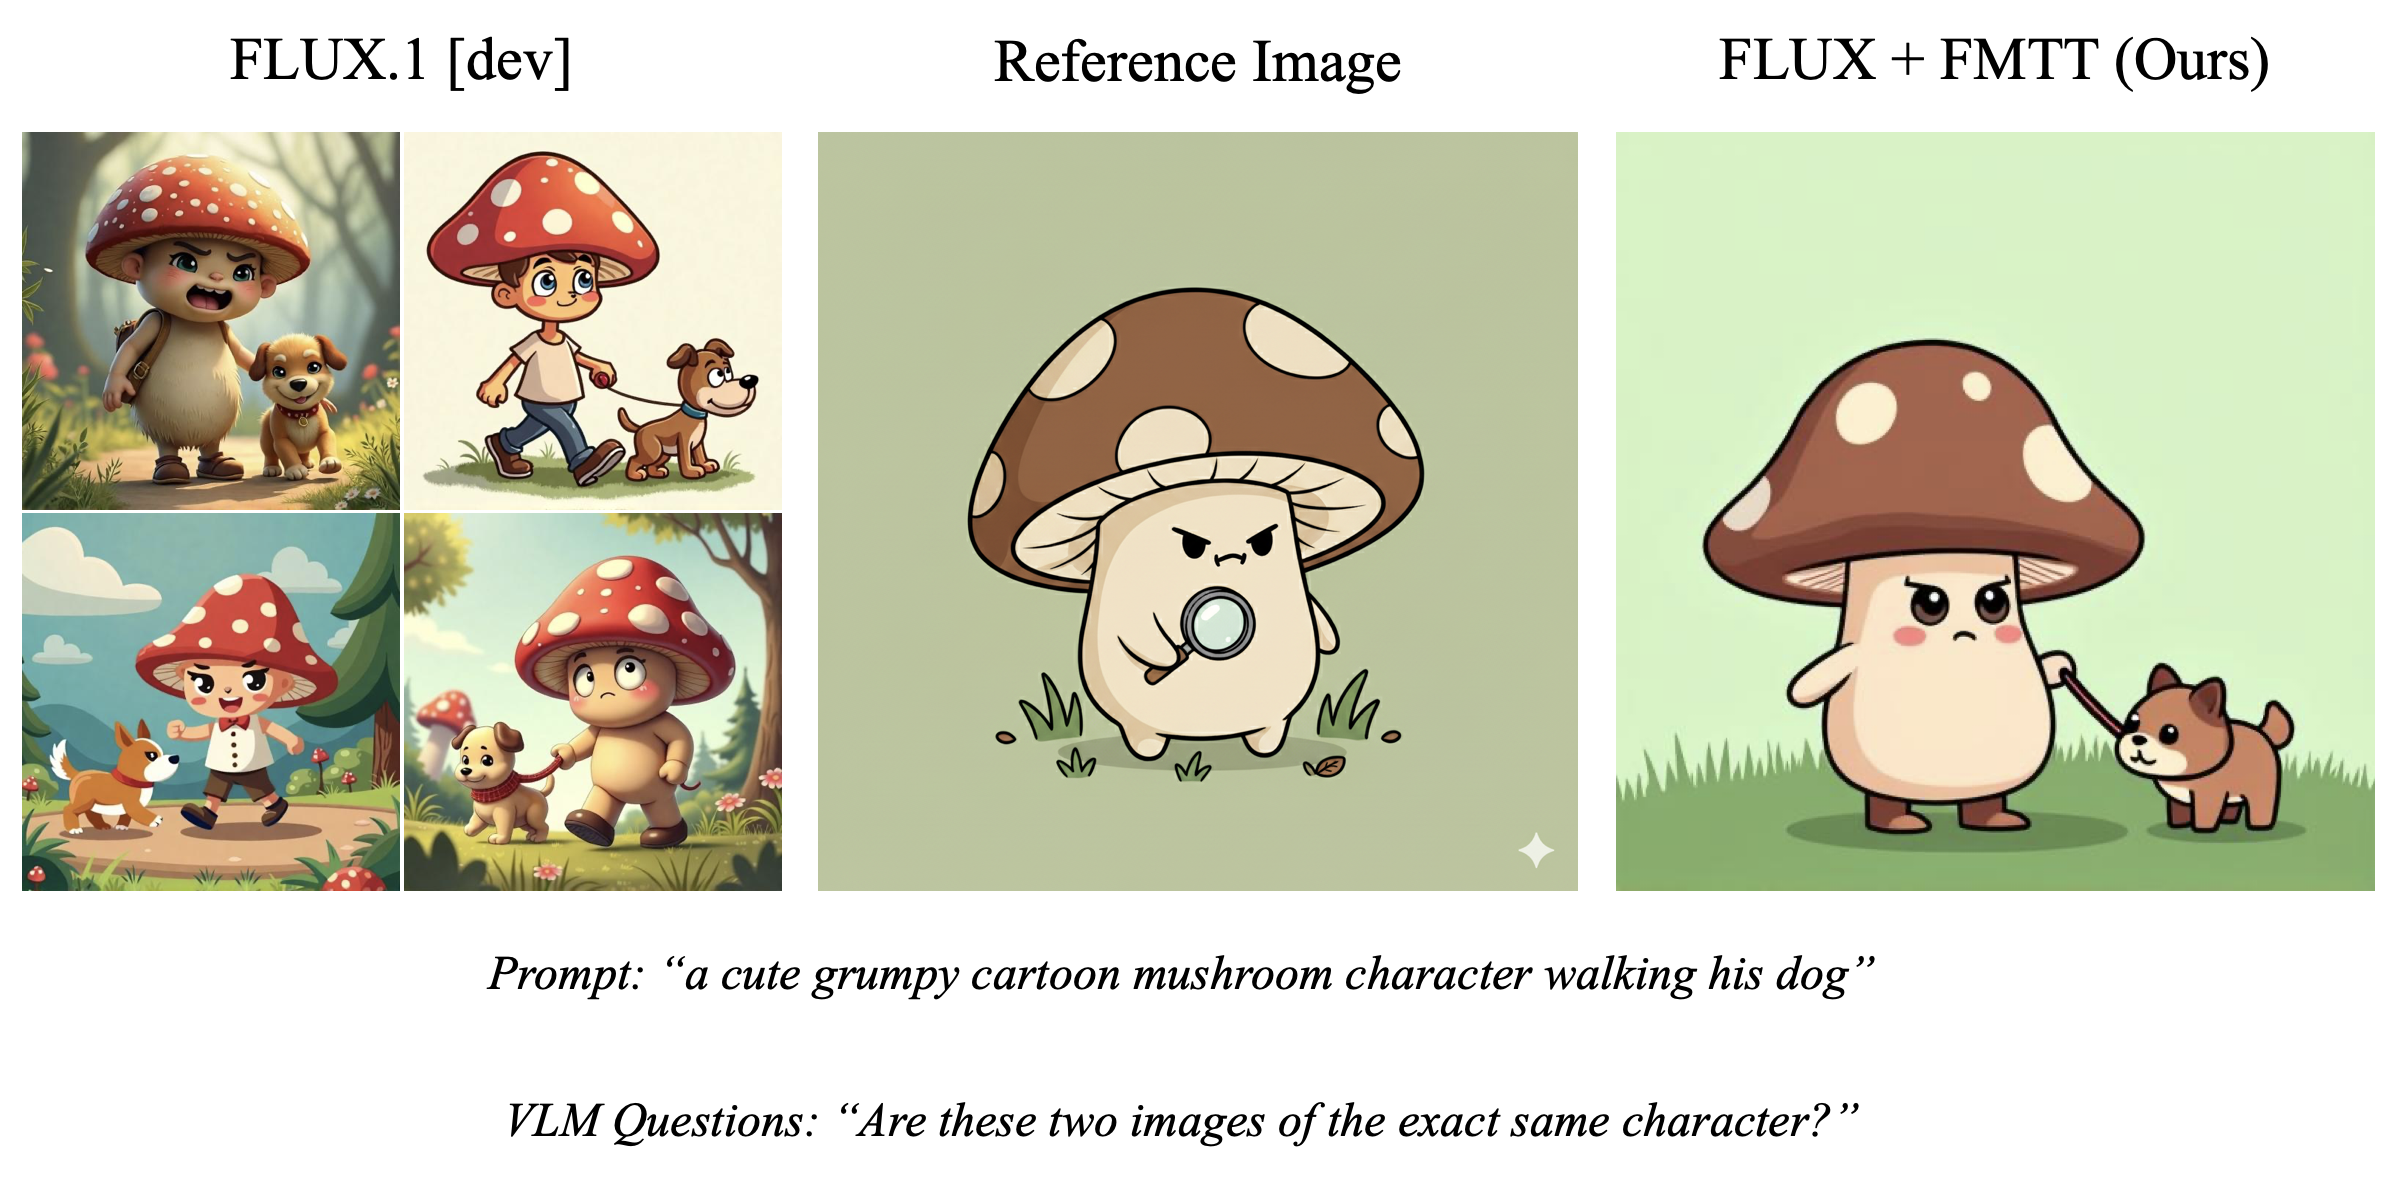
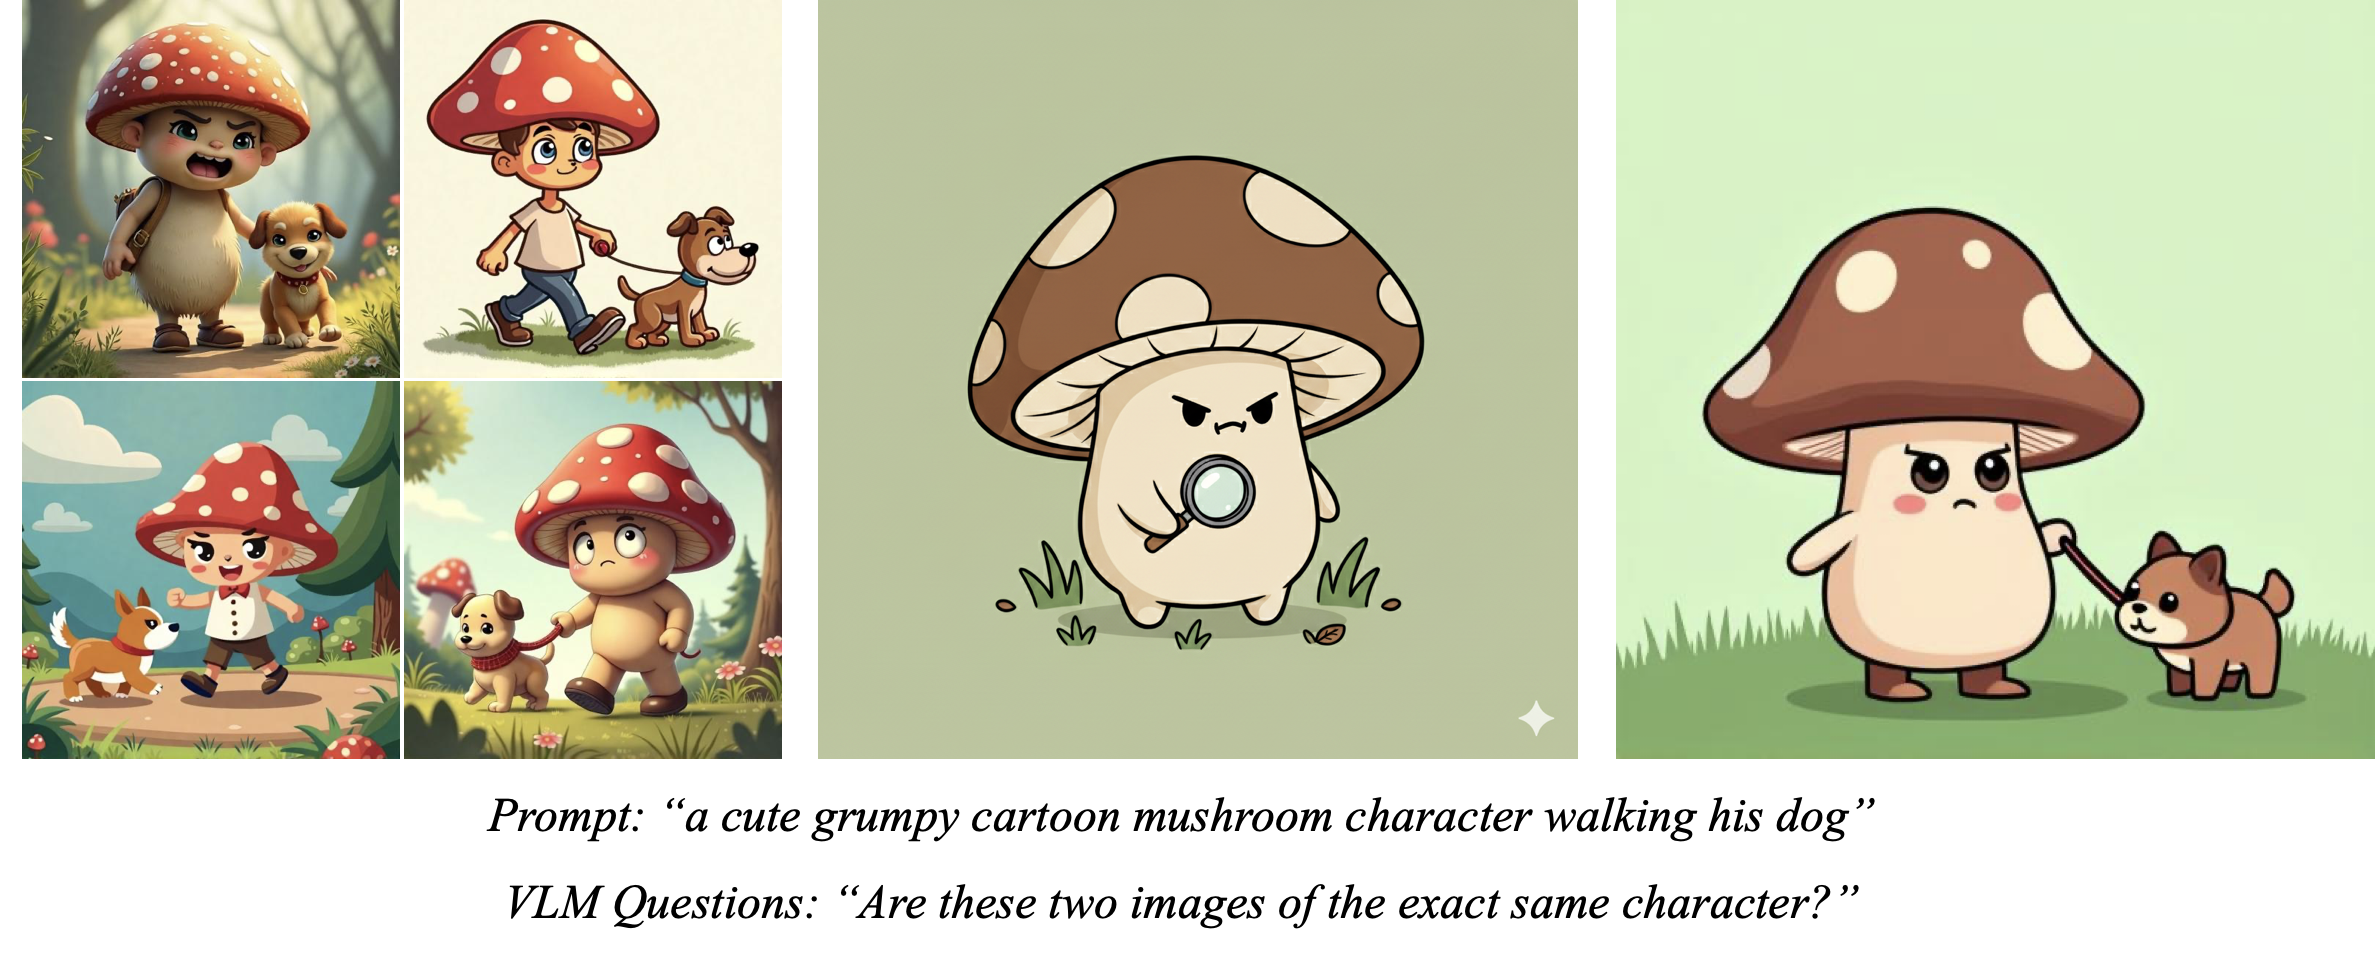
Update a few figures

diff --git a/index.html b/index.html
@@ -345,7 +345,7 @@
             </div>
             <div class="slider">
                 <div class="slider-item">
-                    <img src="assets/figures/geometrics/geometric-1.png" style="width: 100%; height: auto;">
+                    <img src="assets/figures/geometrics/geometric-1-v2.png" style="width: 100%; height: auto;">
                 </div>
                 <div class="slider-item">
                     <img src="assets/figures/geometrics/geometric-2.png" style="width: 100%; height: auto;">
@@ -416,10 +416,6 @@
             For example, asking "Is &lt;PROMPT&gt; a correct caption for the image?" encourages the generation of images that more accurately match the prompt.
         </p>
         <p class="text">
-            Additionally, since some VLMs can also process multiple images, we can also define rewards that depend on comparisons between the generated image and 
-            additional reference images, such as style similarity and character consistency.
-        </p>
-        <p class="text">
             This approach provides a powerful and flexible way to steer generation toward arbitrary objectives by simply changing the prompt.
             Below we show several examples.
         </p>
@@ -467,6 +463,10 @@
         <p class="text">
             Additionally, since some VLMs can also process multiple images, we can also use them to define rewards 
             that depend on comparisons between the generated image and additional reference images, such as style similarity and character consistency. 
+        </p>
+        <p class="text">
+            In these experiments, the examples from the base FLUX.1 [dev] model are generated using only the text prompt without the reference image. 
+            For FLUX + FMTT, the reference image and the generated image are fed to the VLM and the VLM question is used to compute the reward. 
             Below we show some examples.
         </p>
     </div>
